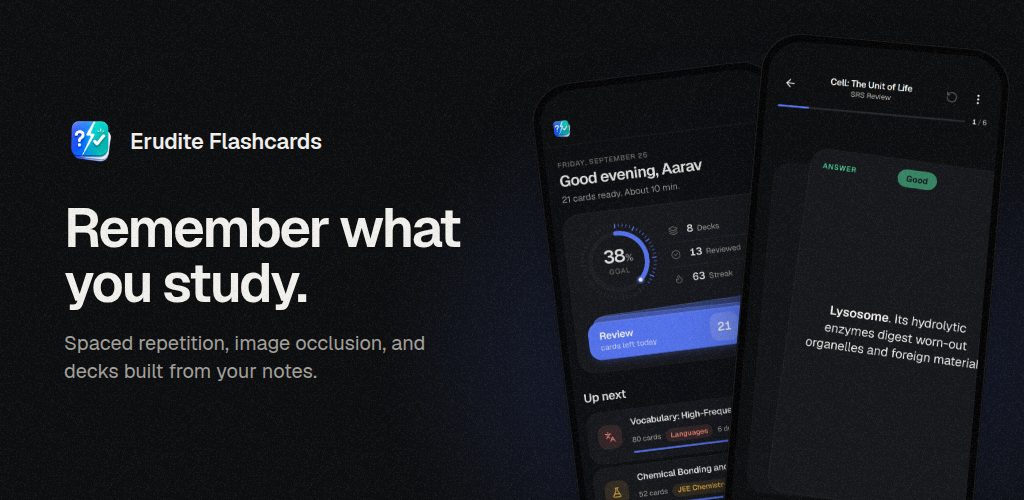
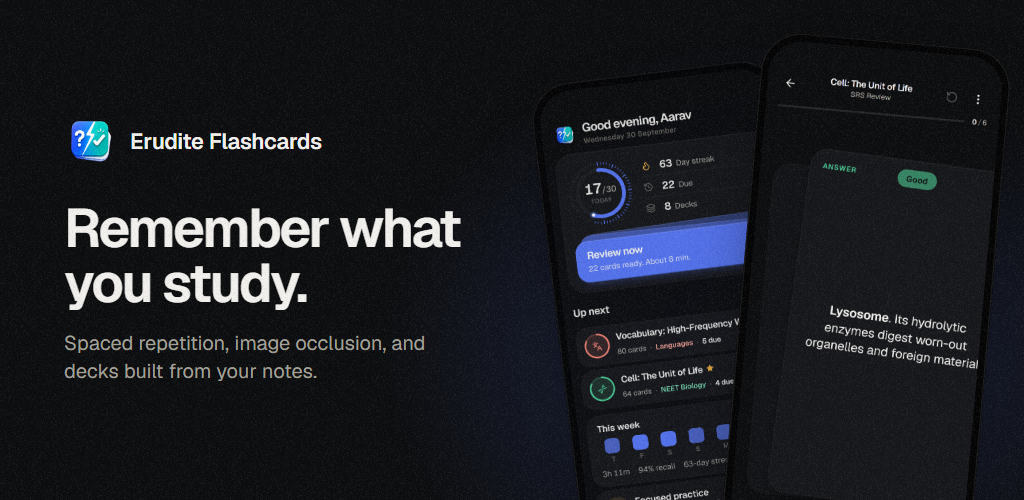
Play Store assets for V2: new-design screenshots, premade NCERT shot, YouTube thumbnail
- Store generator: new lineup (Today, animated NCERT card, swipe, library,
  occlusion, insights, AI, paper); premade shot uses a real Laws of Motion
  card caught mid-animation. Session-complete shot dropped.
- Screenshots and feature graphic regenerated from the current app.
- YouTube thumbnail (1280x720) rendered from play-store/youtube/thumbnail.html.
- Submission notes: new upload order, alt texts, video steps.

diff --git a/play-store/generator/generate.js b/play-store/generator/generate.js
@@ -23,14 +23,18 @@ const MIME = {
 // Order matches the Play listing. Headlines stay short enough for two lines.
 const SHOTS = [
   { id: '01-today', eyebrow: 'Daily goal', title: 'Know exactly what to study today', copy: 'Your goal ring fills as you review.' },
-  { id: '02-swipe', eyebrow: 'Spaced repetition', title: 'Swipe to rate. It schedules the rest.', copy: 'FSRS brings each card back just before you forget it.' },
-  { id: '03-library', eyebrow: 'Your library', title: 'Every chapter in one place', copy: 'Decks and classes for NEET, JEE, boards, and more.' },
-  { id: '04-occlusion', eyebrow: 'Image occlusion', title: 'Label diagrams from memory', copy: 'One figure becomes a card for every label.', shift: 150 },
-  { id: '05-insights', eyebrow: 'Insights', title: 'Watch your memory get stronger', copy: 'Retention, streaks, and your upcoming workload.' },
-  { id: '06-ai', eyebrow: 'Create faster', title: 'Turn any PDF into flashcards', copy: 'Build a precise prompt for your AI, then import in one tap.' },
-  { id: '07-complete', eyebrow: 'Every session', title: 'Finish with a clear picture', copy: 'See what you remembered and when cards come back.' },
+  { id: '02-premade', eyebrow: 'Ready-made NCERT chapters', title: 'Every chapter, built card by card', copy: 'Class 11 and 12 Physics, Chemistry, Biology and Maths, with animated diagrams.' },
+  { id: '03-swipe', eyebrow: 'Spaced repetition', title: 'Swipe to rate. It schedules the rest.', copy: 'FSRS brings each card back just before you forget it.' },
+  { id: '04-library', eyebrow: 'Your library', title: 'Every subject in its own place', copy: 'Chapters sort into classes, each with its colour and icon.' },
+  { id: '05-occlusion', eyebrow: 'Image occlusion', title: 'Label diagrams from memory', copy: 'One figure becomes a card for every label.', shift: 150 },
+  { id: '06-insights', eyebrow: 'Insights', title: 'Watch your memory get stronger', copy: 'Retention, streaks, and your upcoming workload.' },
+  { id: '07-ai', eyebrow: 'Create faster', title: 'Turn any PDF into flashcards', copy: 'Build a precise prompt for your AI, then import in one tap.' },
   { id: '08-paper', eyebrow: 'Comfortable', title: 'Easy on the eyes', copy: 'Dark, light, and a paper texture for long sessions.', light: true }
 ];
+
+// The premade shot uses real cards from a published chapter.
+const PREMADE_DECK = path.join(repo, 'premade-cards/11th/Physics/class11-physics-ch04-laws-of-motion/deck.json');
+const PREMADE_CARDS = String(process.env.PREMADE_CARDS || '32').split(',').map(Number);
 
 // In-memory file store for the Capacitor shim. The seeded library is larger
 // than the ~5 MB localStorage limit the smoke tests use.
@@ -146,20 +150,20 @@ async function captureApp(browser, base) {
 
   await page.locator('[data-action="open-insights"]').click();
   await page.waitForTimeout(900);
-  await capture(page, '05-insights');
+  await capture(page, '06-insights');
   await page.locator('#insights-sheet [data-action="close-page-sheet"]').click();
   await page.waitForTimeout(300);
 
   await page.evaluate(() => window.scrollTo(0, 0));
   await page.locator('.tab-button[data-tab="library"]').click();
   await page.waitForTimeout(900);
-  await capture(page, '03-library');
+  await capture(page, '04-library');
 
   await page.locator('.tab-button[data-tab="create"]').click();
   await page.waitForTimeout(500);
   await page.locator('#header-creator-ai-btn').click();
   await page.waitForTimeout(900);
-  await capture(page, '06-ai');
+  await capture(page, '07-ai');
 
   await page.addScriptTag({ url: `${base}/generator/seed.js` });
   await page.evaluate(async () => {
@@ -182,7 +186,7 @@ async function captureApp(browser, base) {
     await page.waitForTimeout(16);
   }
   await page.waitForTimeout(160);
-  await capture(page, '02-swipe');
+  await capture(page, '03-swipe');
   await page.mouse.move(x, y);
   await page.mouse.up();
   await page.waitForTimeout(700);
@@ -197,13 +201,31 @@ async function captureApp(browser, base) {
     await page.waitForTimeout(500);
   }
   await page.waitForSelector('#completion-modal:not(.hidden)', { timeout: 10000 }).catch(() => {});
-  await page.waitForTimeout(760);
-  await capture(page, '07-complete');
+
+  // NCERT chapter: an animated premade card, caught mid-animation.
+  if (want('02-premade')) {
+    const deck = JSON.parse(fs.readFileSync(PREMADE_DECK, 'utf8'));
+    for (const index of PREMADE_CARDS) {
+      await page.goto(`${base}/index.html`);
+      await ready(page);
+      await page.addScriptTag({ url: `${base}/generator/seed.js` });
+      await page.evaluate(({ name, cards }) => window.EruditeStoreSeed.seedPremade(name, cards), { name: deck.name, cards: [deck.cards[index]] });
+      await page.goto(`${base}/mobile/study.html?setId=premade-showcase&srs=false&from=library`);
+      await page.waitForSelector('#card-stage .study-card.slot-active', { timeout: 30000 });
+      if (process.env.PREMADE_FLIP !== '0') {
+        await page.locator('#card-stage .study-card.slot-active').click();
+        await page.waitForTimeout(400);
+      }
+      await page.waitForTimeout(Number(process.env.PREMADE_WAIT || 2200));
+      const id = PREMADE_CARDS.length > 1 ? `02-premade-${index}` : '02-premade';
+      await page.screenshot({ path: path.join(rawDir, `${id}.png`) });
+    }
+  }
 
   await page.goto(`${base}/mobile/study.html?setId=cell-diagram&srs=false&from=library`);
   await page.waitForSelector('#card-stage .study-card.slot-active .occlusion-mask-layer.is-positioned', { timeout: 30000 });
   await page.waitForTimeout(900);
-  await capture(page, '04-occlusion');
+  await capture(page, '05-occlusion');
   if (process.env.DEBUG_STORE) {
     console.log(await page.evaluate(() => {
       const wrap = document.querySelector('#card-stage .study-card.slot-active .card-face.front .occlusion-study-canvas');
@@ -222,6 +244,7 @@ async function captureApp(browser, base) {
     await window.flashcardStore.saveSettings({ ...settings, theme: 'light', paperTexture: true });
     await window.flashcardStore.deleteSet('showcase');
     await window.flashcardStore.deleteSet('cell-diagram');
+    await window.flashcardStore.deleteSet('premade-showcase');
     await window.flashcardStore.flush?.();
     localStorage.setItem('erudite-theme', 'light');
     localStorage.setItem('erudite-goal-ring-last', 'null');
@@ -263,7 +286,7 @@ async function frame(browser, base) {
   await page.evaluate(({ name, today, swipe }) => window.renderFeature({ name, today, swipe }), {
     name: APP_NAME,
     today: dataUrl(path.join(rawDir, '01-today.png')),
-    swipe: dataUrl(path.join(rawDir, '02-swipe.png'))
+    swipe: dataUrl(path.join(rawDir, '03-swipe.png'))
   });
   await page.waitForTimeout(300);
   await page.screenshot({ path: path.join(outDir, 'feature-graphic-1024x500.png') });
@@ -278,7 +301,7 @@ async function main() {
   const browser = await chromium.launch({ executablePath: process.env.CHROMIUM || '/opt/pw-browsers/chromium-1194/chrome-linux/chrome' });
   try {
     if (!process.env.FRAME_ONLY) await captureApp(browser, base);
-    await frame(browser, base);
+    if (!process.env.CAPTURE_ONLY) await frame(browser, base);
   } finally {
     await browser.close();
     server.close();

diff --git a/play-store/youtube/thumbnail.html b/play-store/youtube/thumbnail.html
@@ -1,0 +1,168 @@
+<!DOCTYPE html>
+<html lang="en">
+<head>
+<meta charset="UTF-8">
+<title>YouTube thumbnail</title>
+<style>
+  @font-face { font-family: "Geist"; font-weight: 100 900; src: url("../showreel/public/geist.woff2") format("woff2"); }
+  @font-face { font-family: "Instrument Serif"; font-style: italic; src: url("../showreel/public/serif-italic.woff2") format("woff2"); }
+  @font-face { font-family: "Geist Mono"; font-weight: 500; src: url("../showreel/public/mono.woff2") format("woff2"); }
+  * { box-sizing: border-box; }
+  html, body { margin: 0; width: 1280px; height: 720px; overflow: hidden; }
+  body {
+    position: relative;
+    background: #fcfcfb;
+    color: #0b0d12;
+    font-family: "Geist", sans-serif;
+    -webkit-font-smoothing: antialiased;
+  }
+  /* Soft colour from the logo, very faint. */
+  .glow {
+    position: absolute;
+    inset: 0;
+    background:
+      radial-gradient(520px 320px at 38% 46%, rgba(45, 100, 255, 0.11), transparent 70%),
+      radial-gradient(520px 320px at 64% 54%, rgba(22, 214, 200, 0.10), transparent 70%);
+  }
+  /* Fine grid that fades out towards the edges. */
+  .grid {
+    position: absolute;
+    inset: 0;
+    background-image:
+      linear-gradient(rgba(15, 23, 42, 0.055) 1px, transparent 1px),
+      linear-gradient(90deg, rgba(15, 23, 42, 0.055) 1px, transparent 1px);
+    background-size: 48px 48px;
+    background-position: -1px 11px;
+    -webkit-mask-image: radial-gradient(760px 460px at 50% 50%, #000 30%, transparent 85%);
+    mask-image: radial-gradient(760px 460px at 50% 50%, #000 30%, transparent 85%);
+  }
+  .grain {
+    position: absolute;
+    inset: 0;
+    opacity: 0.35;
+    background-size: 200px 200px;
+    mix-blend-mode: multiply;
+  }
+  svg.curves { position: absolute; inset: 0; }
+  .center {
+    position: absolute;
+    inset: 0;
+    display: grid;
+    place-items: center;
+    align-content: center;
+    text-align: center;
+  }
+  .brand {
+    display: inline-flex;
+    align-items: center;
+    gap: 14px;
+    padding: 10px 24px 10px 10px;
+    border-radius: 999px;
+    background: rgba(255, 255, 255, 0.85);
+    box-shadow: 0 0 0 1px rgba(15, 23, 42, 0.08), 0 8px 24px rgba(15, 23, 42, 0.06);
+    font-size: 26px;
+    font-weight: 600;
+    letter-spacing: -0.02em;
+  }
+  .brand img { width: 46px; height: 46px; }
+  h1 {
+    margin: 34px 0 0;
+    font-size: 118px;
+    font-weight: 680;
+    letter-spacing: -0.058em;
+    line-height: 0.98;
+  }
+  h1 em {
+    font-family: "Instrument Serif", serif;
+    font-style: italic;
+    font-weight: 400;
+    font-size: 138px;
+    letter-spacing: -0.02em;
+    background: linear-gradient(95deg, #2d64ff 10%, #14b8b0 90%);
+    -webkit-background-clip: text;
+    background-clip: text;
+    color: transparent;
+    padding-right: 8px;
+  }
+  .tag {
+    margin-top: 30px;
+    font-family: "Geist Mono", monospace;
+    font-size: 20px;
+    letter-spacing: 0.14em;
+    color: rgba(11, 13, 18, 0.5);
+  }
+</style>
+</head>
+<body>
+  <div class="glow"></div>
+  <div class="grid"></div>
+
+  <!-- Memory fading away (grey, dashed) vs. spaced reviews keeping it high (brand gradient). -->
+  <svg class="curves" viewBox="0 0 1280 720" aria-hidden="true">
+    <defs>
+      <linearGradient id="brand" x1="0" x2="1">
+        <stop offset="0" stop-color="#2d64ff" stop-opacity="0.08" />
+        <stop offset="0.35" stop-color="#2d64ff" stop-opacity="0.45" />
+        <stop offset="1" stop-color="#14b8b0" stop-opacity="0.55" />
+      </linearGradient>
+      <linearGradient id="fade" x1="0" x2="1">
+        <stop offset="0" stop-color="#0b0d12" stop-opacity="0.28" />
+        <stop offset="1" stop-color="#0b0d12" stop-opacity="0.05" />
+      </linearGradient>
+    </defs>
+    <path id="forget" fill="none" stroke="url(#fade)" stroke-width="2" stroke-dasharray="5 9" stroke-linecap="round" />
+    <path id="srs" fill="none" stroke="url(#brand)" stroke-width="2.5" stroke-linecap="round" stroke-linejoin="round" />
+    <g id="dots"></g>
+  </svg>
+
+  <div class="center">
+    <div class="brand"><img src="../../assets/icons/icon.png" alt="">Erudite Flashcards</div>
+    <h1>Study less.<br><em>Remember more.</em></h1>
+    <div class="tag">ACTIVE RECALL · SPACED REPETITION</div>
+  </div>
+  <div class="grain" id="grain"></div>
+
+<script>
+  // Curves along the bottom third: an exponential forgetting curve, and a
+  // sawtooth that is topped up at each review and decays more slowly each time.
+  const X0 = 40, X1 = 1240, TOP = 600, BOT = 704;
+  const y = v => BOT - (BOT - TOP) * v;
+  const x = t => X0 + (X1 - X0) * t;
+  let forget = '';
+  for (let i = 0; i <= 200; i++) {
+    const t = i / 200;
+    forget += `${i ? 'L' : 'M'}${x(t).toFixed(1)},${y(Math.exp(-t * 7)).toFixed(1)}`;
+  }
+  document.getElementById('forget').setAttribute('d', forget);
+  const reviews = [0, 0.1, 0.24, 0.44, 0.7, 1.01];
+  let srs = '';
+  const dots = [];
+  for (let r = 0; r < reviews.length - 1; r++) {
+    const a = reviews[r], b = reviews[r + 1];
+    const k = 9 / Math.pow(2.2, r);
+    for (let i = 0; i <= 40; i++) {
+      const t = a + (b - a) * (i / 40);
+      const v = 0.95 * Math.exp(-(t - a) * k);
+      srs += `${srs ? 'L' : 'M'}${x(t).toFixed(1)},${y(Math.max(v, 0.02)).toFixed(1)}`;
+    }
+    if (r < reviews.length - 2) dots.push(x(b));
+  }
+  document.getElementById('srs').setAttribute('d', srs);
+  document.getElementById('dots').innerHTML = dots
+    .map(px => `<circle cx="${px}" cy="${y(0.95)}" r="4" fill="#fff" stroke="#2d64ff" stroke-width="2" stroke-opacity="0.5" />`)
+    .join('');
+
+  // Paper grain.
+  const size = 200, canvas = document.createElement('canvas');
+  canvas.width = canvas.height = size;
+  const ctx = canvas.getContext('2d'), img = ctx.createImageData(size, size);
+  for (let i = 0; i < img.data.length; i += 4) {
+    const v = Math.random();
+    img.data[i] = img.data[i + 1] = img.data[i + 2] = 60;
+    img.data[i + 3] = Math.round(Math.pow(v, 3) * 26);
+  }
+  ctx.putImageData(img, 0, 0);
+  document.getElementById('grain').style.backgroundImage = `url(${canvas.toDataURL()})`;
+</script>
+</body>
+</html>

diff --git a/play-store/youtube/render.js b/play-store/youtube/render.js
@@ -1,0 +1,17 @@
+'use strict';
+// Renders thumbnail.html to thumbnail-1280x720.png (YouTube's size).
+//   CHROMIUM=/path/to/chrome node play-store/youtube/render.js
+const path = require('path');
+const { pathToFileURL } = require('url');
+const { chromium } = require('playwright-core');
+
+(async () => {
+  const browser = await chromium.launch({ executablePath: process.env.CHROMIUM });
+  const page = await browser.newPage({ viewport: { width: 1280, height: 720 }, deviceScaleFactor: 1 });
+  await page.goto(pathToFileURL(path.join(__dirname, 'thumbnail.html')).href);
+  await page.evaluate(() => document.fonts.ready);
+  await page.waitForTimeout(300);
+  await page.screenshot({ path: path.join(__dirname, 'thumbnail-1280x720.png') });
+  await browser.close();
+  console.log('wrote thumbnail-1280x720.png');
+})();

diff --git a/play-store/generator/seed.js b/play-store/generator/seed.js
@@ -377,5 +377,21 @@
     await window.flashcardStore.flush?.();
   }
 
-  window.EruditeStoreSeed = { seedStoreData, seedOcclusion, seedShowcaseStudy };
+  // Real premade cards (passed in from the deck's JSON), for the NCERT shot.
+  async function seedPremade(name, cards) {
+    await window.flashcardStore.saveSet({
+      id: 'premade-showcase',
+      name,
+      classId: 'physics',
+      srsSettings: { newCardsPerDay: 20 },
+      cards: cards.map((card, index) => ({
+        ...card,
+        id: `premade-${index}`,
+        cardTemplate: card.noteType === 'advanced-html' ? 'advanced-html' : card.cardTemplate
+      }))
+    });
+    await window.flashcardStore.flush?.();
+  }
+
+  window.EruditeStoreSeed = { seedStoreData, seedOcclusion, seedShowcaseStudy, seedPremade };
 }());

diff --git a/play-store/PLAY_CONSOLE_SUBMISSION.md b/play-store/PLAY_CONSOLE_SUBMISSION.md
@@ -65,23 +65,24 @@ Upload the assets in this order:
 2. Use `assets/2026/feature-graphic-1024x500.png` as the 1024 × 500 feature graphic.
 3. Upload the phone screenshots in this order:
    1. `assets/2026/phone-01-today.png`
-   2. `assets/2026/phone-02-swipe.png`
-   3. `assets/2026/phone-03-library.png`
-   4. `assets/2026/phone-04-occlusion.png`
-   5. `assets/2026/phone-05-insights.png`
-   6. `assets/2026/phone-06-ai.png`
-   7. `assets/2026/phone-07-complete.png`
+   2. `assets/2026/phone-02-premade.png`
+   3. `assets/2026/phone-03-swipe.png`
+   4. `assets/2026/phone-04-library.png`
+   5. `assets/2026/phone-05-occlusion.png`
+   6. `assets/2026/phone-06-insights.png`
+   7. `assets/2026/phone-07-ai.png`
    8. `assets/2026/phone-08-paper.png`
+4. Video: the landscape showreel `showreel/out/erudite-showreel-v3-1920x1080.mp4`, uploaded to YouTube (public or unlisted, embedding allowed). Paste its `https://www.youtube.com/watch?v=…` link into **Graphics → Video**. The thumbnail is `youtube/thumbnail-1280x720.png`.
 
 Use these screenshot alt-text descriptions in the same order:
 
-1. `Today screen with a daily goal ring at 38 percent, a 63-day streak, and a Review button showing 21 cards left.`
-2. `Flashcard being swiped right mid-review, labelled Good, showing the answer about lysosomes.`
-3. `Library of decks grouped into classes such as NEET Biology and JEE Chemistry.`
-4. `Image occlusion card hiding one label on an animal cell diagram.`
-5. `Insights showing 96 percent retention, due load, weak cards, and a rating breakdown.`
-6. `AI Deck Maker offering study goals such as Quick Revision and Competitive Exam.`
-7. `Session complete screen with a check mark, cards reviewed, percent remembered, and next due date.`
+1. `Today screen with a goal ring at 17 of 30 cards, a 63-day streak, 22 cards due, and a Review now button.`
+2. `A ready-made NCERT Physics card with an animated diagram of a stone dropped from an accelerating train.`
+3. `Flashcard being swiped right mid-review, labelled Good, showing the answer about lysosomes.`
+4. `Library of decks sorted into colour-coded classes such as NEET Biology and JEE Chemistry, each with a progress ring.`
+5. `Image occlusion card hiding one label on an animal cell diagram.`
+6. `Insights showing retention, due load, weak cards, and a rating breakdown.`
+7. `AI Deck Maker offering study goals such as Quick Revision and Competitive Exam.`
 8. `Today screen in the light theme with the paper texture turned on.`
 
 The images in `assets/` from July 2026 show the previous design; keep them only for reference.
